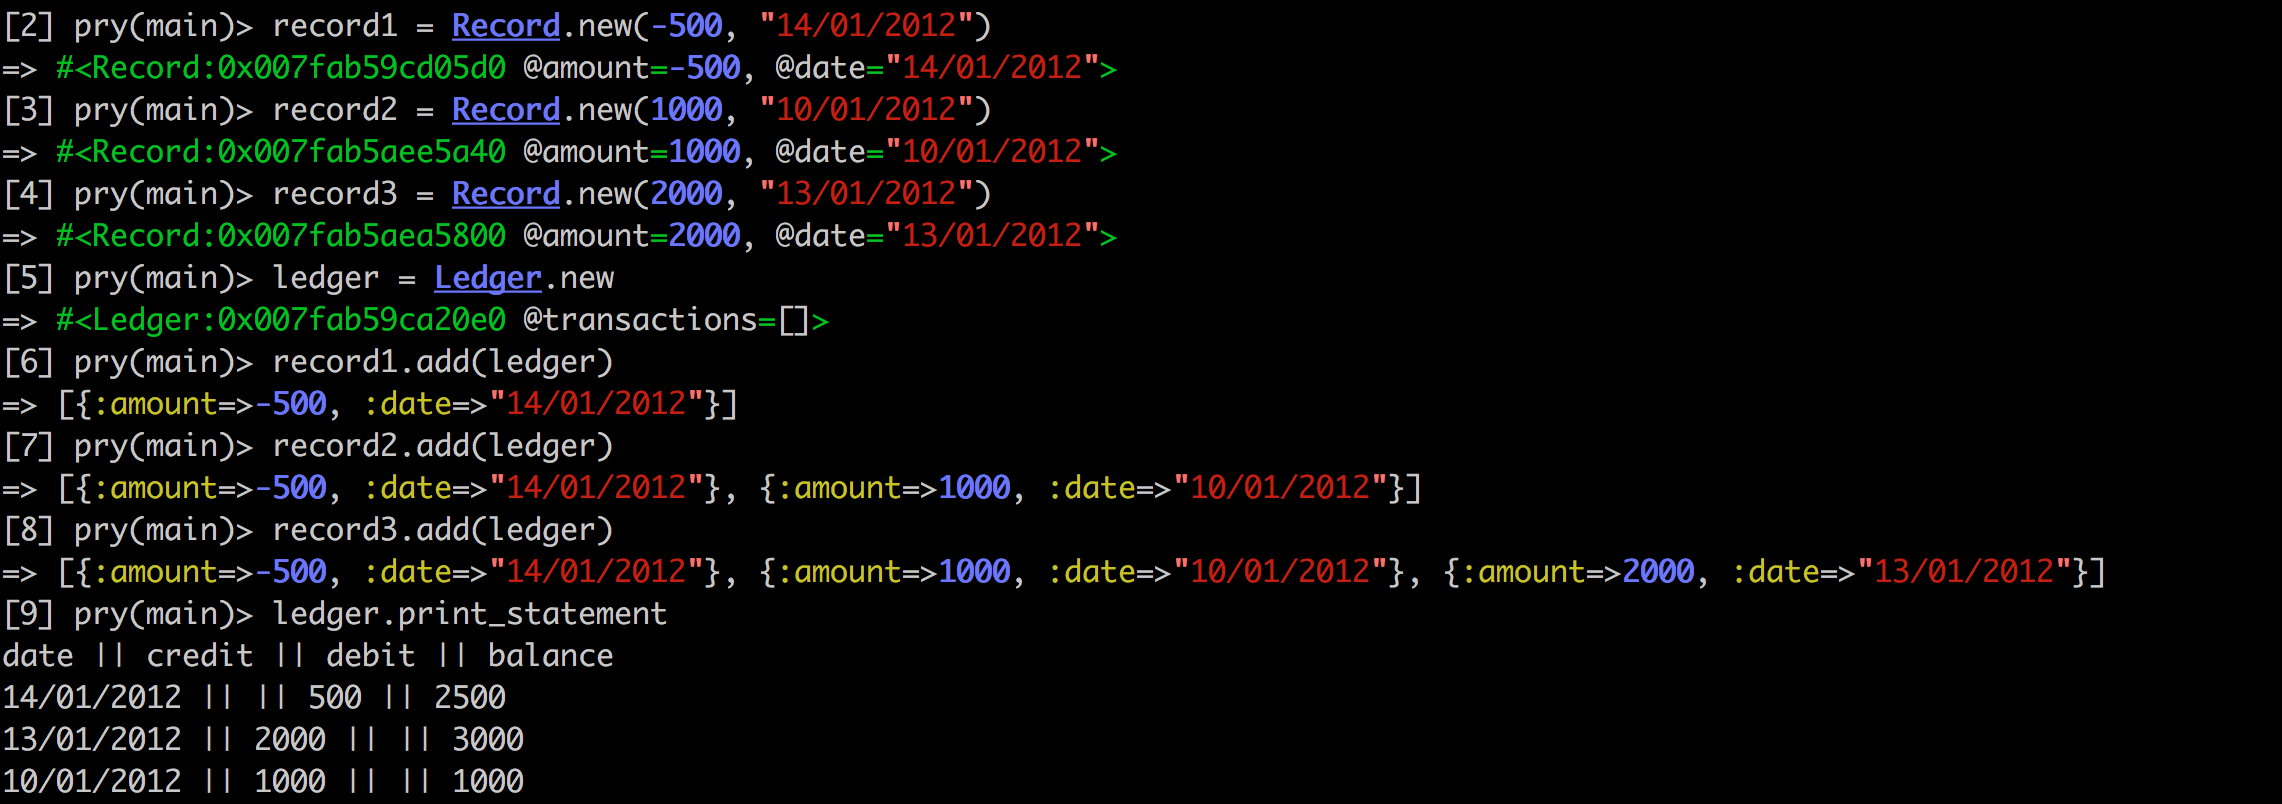
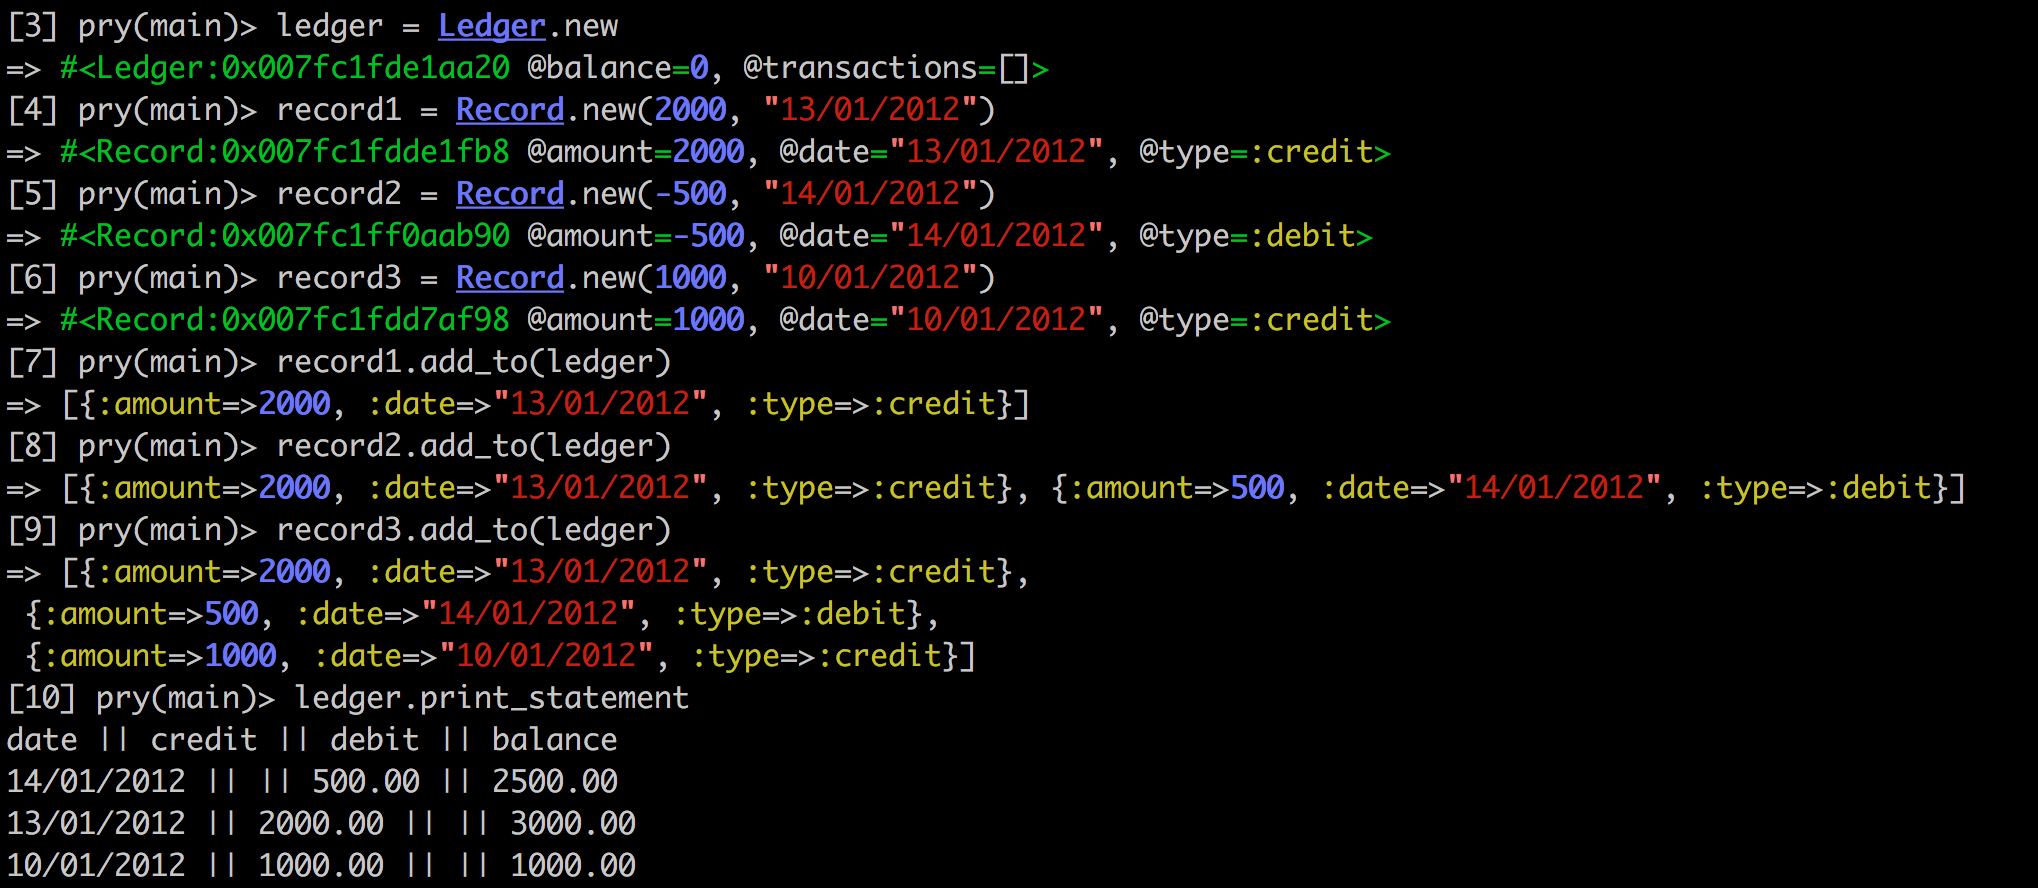
combine  record type method with the ledger

diff --git a/lib/ledger.rb b/lib/ledger.rb
@@ -1,5 +1,5 @@
 class Ledger
-  attr_accessor :transactions
+  attr_accessor :transactions, :balance
 
   def initialize
     @transactions = []
@@ -11,7 +11,7 @@ class Ledger
     create_transaction_history
   end
 
-  # private
+  private
 
   def print_heading
     puts 'date || credit || debit || balance'
@@ -20,33 +20,28 @@ class Ledger
   def create_transaction_history
     history = []
     sort_transactions.each do |transaction|
-      if debit?(transaction)
-        history << format_debit(transaction)
-      else
-        history << format_credit(transaction)
-      end
+      history << if transaction[:type] == :debit
+                   format_debit(transaction)
+                 else
+                   format_credit(transaction)
+                 end
     end
     sort_transaction_history(history)
   end
 
   def sort_transactions
-    @transactions.sort_by { |k, v| k[:date] }
-  end
-
-  def debit?(transaction)
-    transaction[:amount].to_i < 0
+    @transactions.sort_by { |k, _v| k[:date] }
   end
 
   def format_debit(transaction)
-    "#{transaction[:date]} || || #{transaction[:amount].abs} || #{@balance += transaction[:amount]}\n"
+    "#{transaction[:date]} || || #{format('%.2f', transaction[:amount])} || #{format('%.2f', @balance -= transaction[:amount])}\n"
   end
 
   def format_credit(transaction)
-    "#{transaction[:date]} || #{transaction[:amount]} || || #{@balance += transaction[:amount]}\n"
+    "#{transaction[:date]} || #{format('%.2f', transaction[:amount])} || || #{format('%.2f', @balance += transaction[:amount])}\n"
   end
 
   def sort_transaction_history(transactions)
     puts transactions.reverse.join
   end
-
 end

diff --git a/spec/ledger_spec.rb b/spec/ledger_spec.rb
@@ -7,6 +7,9 @@ describe Ledger do
     it 'initializes with an empty transactions array' do
       expect(my_ledger.transactions).to eq([])
     end
+    it 'initializes with a balance of 0' do
+      expect(my_ledger.balance).to eq(0)
+    end
   end
 
   describe '#print_statement' do
@@ -14,8 +17,12 @@ describe Ledger do
       expect(my_ledger).to respond_to(:print_statement)
     end
     it 'allows me to print a full statement' do
-      my_ledger.transactions = [{ amount: 100, date: '07/08/2017' }, { amount: 200, date: '17/08/2017' }]
-      expect { my_ledger.print_statement }.to output("date || credit || debit || balance\n" + "17/08/2017 || 200 || || 300\n07/08/2017 || 100 || || 100\n").to_stdout
+      my_ledger.transactions = [{ amount: 100, date: '07/08/2017', type: :credit }]
+      expect { my_ledger.print_statement }.to output("date || credit || debit || balance\n" + "07/08/2017 || 100.00 || || 100.00\n").to_stdout
+    end
+    it 'allows me to print a full statement in descending order of transaction' do
+      my_ledger.transactions = [{ amount: 100, date: '07/08/2017', type: :credit }, { amount: 200, date: '17/08/2017', type: :credit }]
+      expect { my_ledger.print_statement }.to output("date || credit || debit || balance\n" + "17/08/2017 || 200.00 || || 300.00\n07/08/2017 || 100.00 || || 100.00\n").to_stdout
     end
   end
 end

diff --git a/spec/record_spec.rb b/spec/record_spec.rb
@@ -8,8 +8,8 @@ describe Record do
     it 'initializes with an amount and date' do
       expect(record).to have_attributes(amount: 100, date: '07/08/2017')
     end
-    it 'initializes with a type of nil' do
-      expect(record.type).to eq(nil)
+    it 'checks the type on initialization' do
+      expect(record.type).to eq(:credit)
     end
     it 'can read the amount' do
       expect(record.amount).to eq(100)
@@ -21,7 +21,7 @@ describe Record do
 
   describe '#format_record' do
     it 'formats the record and turns it into a hash' do
-      expect(record.format_record).to eq({amount: 100, date: '07/08/2017'})
+      expect(record.format_record).to eq(amount: 100, date: '07/08/2017', type: :credit)
     end
   end
 
@@ -33,7 +33,7 @@ describe Record do
     it 'adds the record to the transactions array' do
       allow(my_ledger).to receive(:transactions).and_return([])
       record.add_to(my_ledger)
-      expect(my_ledger.transactions).to eq([{ amount: 100, date: '07/08/2017' }])
+      expect(my_ledger.transactions).to eq([{ amount: 100, date: '07/08/2017', type: :credit }])
     end
   end
 end

diff --git a/lib/record.rb b/lib/record.rb
@@ -4,7 +4,7 @@ class Record
   def initialize(amount, date)
     @amount = amount
     @date = date
-    @type = nil
+    @type = set_type
   end
 
   def add_to(ledger)
@@ -12,6 +12,12 @@ class Record
   end
 
   def format_record
-    { amount: @amount, date: @date }
+    { amount: @amount.abs, date: @date, type: @type }
+  end
+
+  private
+
+  def set_type
+    @amount < 0 ? :debit : :credit
   end
 end
